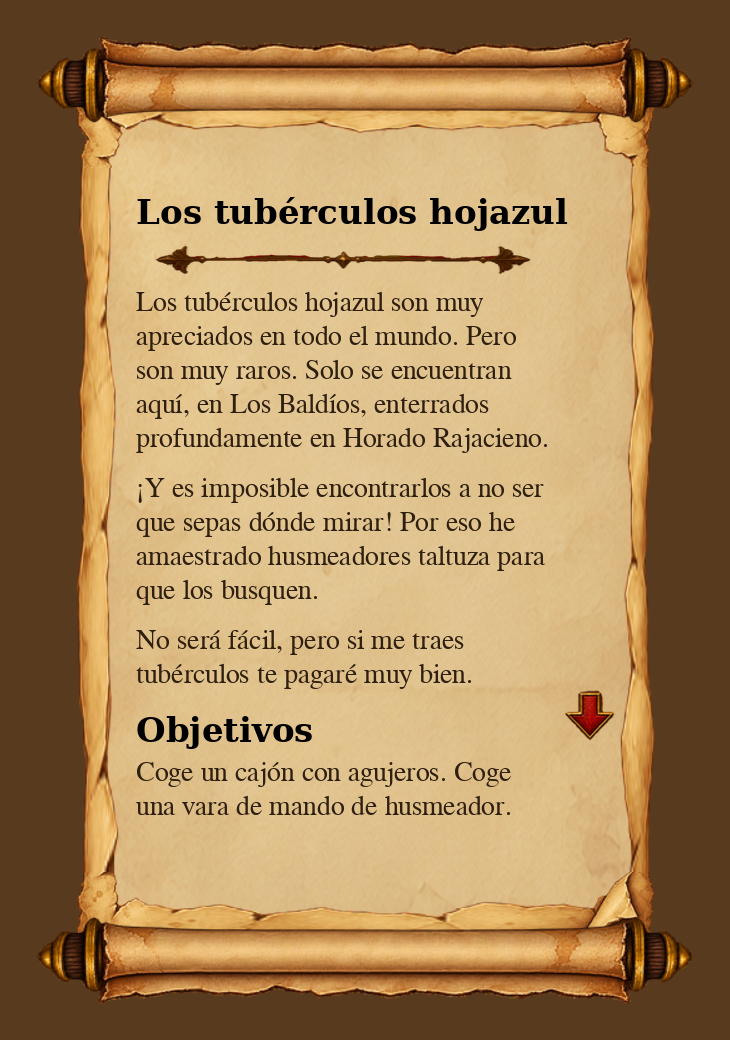
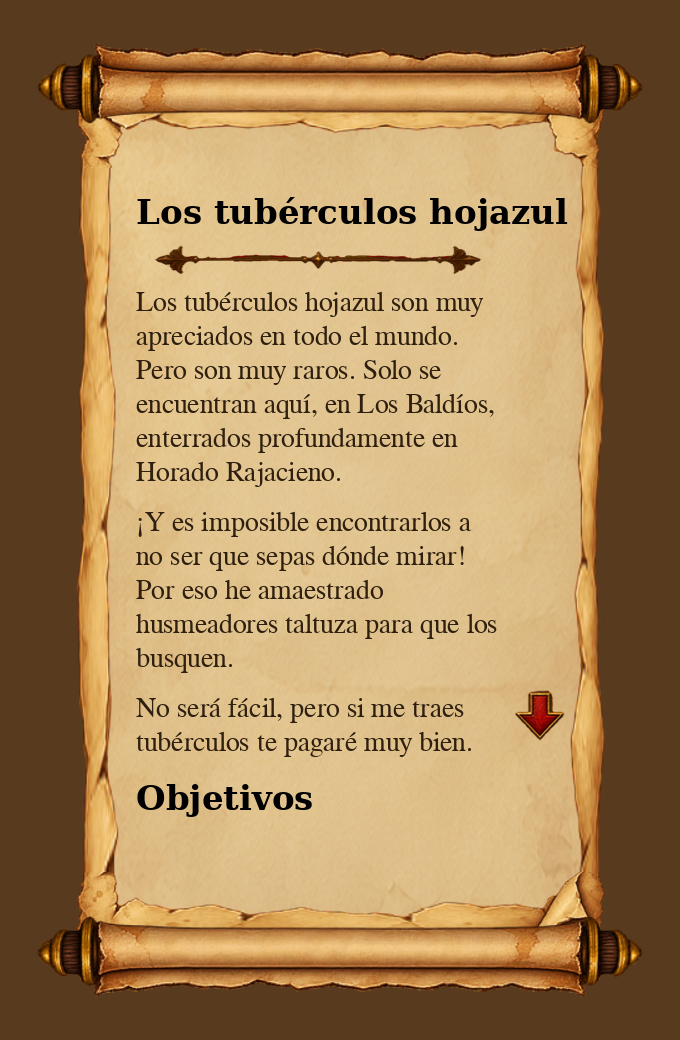
Pergamino aún más angosto (260 px; ventana bilingüe al 76 %)
Claude-Session: https://claude.ai/code/session_01JASLJ65naj8bi2YtGaxZAw

Changed region(s): [[0.0618, 0.0308, 0.9574, 0.9846]]

diff --git a/tools/assets/maqueta_panel.py b/tools/assets/maqueta_panel.py
@@ -3,7 +3,7 @@
 from PIL import Image, ImageDraw, ImageFont
 
 T = 'MisionesES/Textures/'
-W, H, S = 285, 420, 2
+W, H, S = 260, 420, 2
 PAD, TOP, EDGE, OUT = 28, 18, 40, 6
 canvas = Image.new('RGBA', ((W + 80) * S, (H + 100) * S), (88, 58, 30, 255))
 ox, oy = 40 * S, 50 * S
